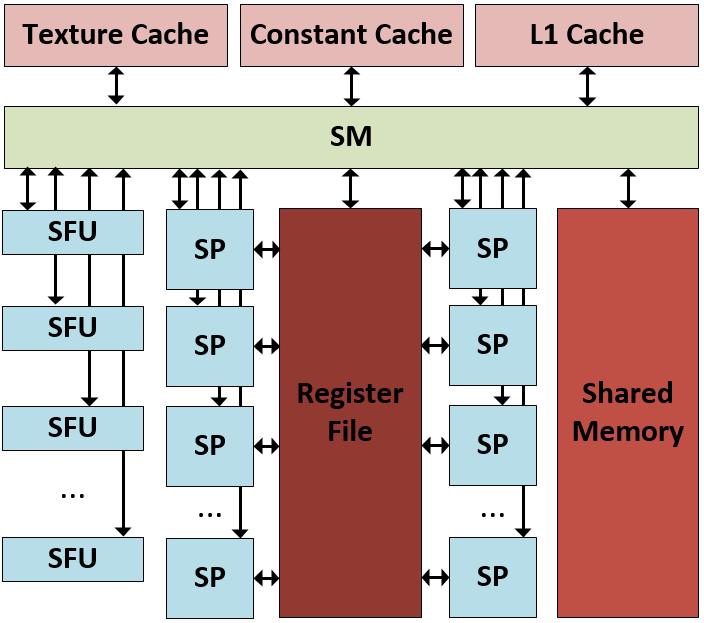
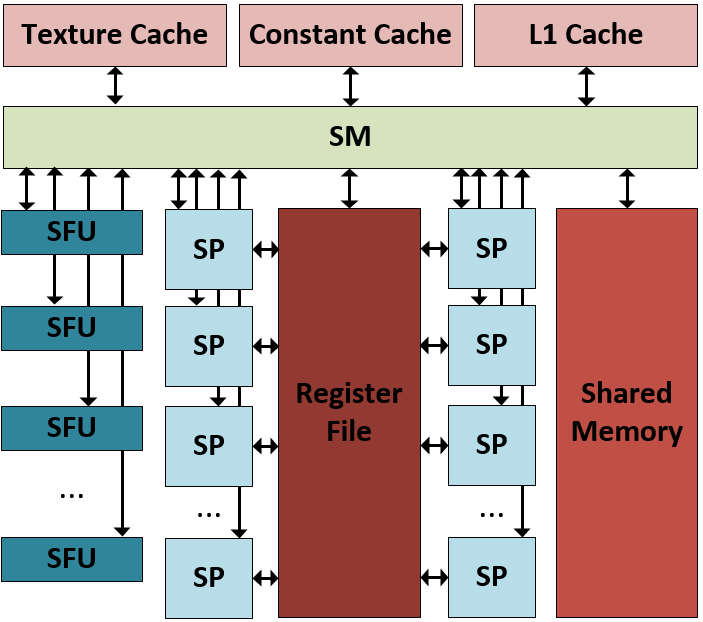
Finished Streaming Processor section + updated figures

diff --git a/doc/content/hw-streaming-processors.tex b/doc/content/hw-streaming-processors.tex
@@ -1,11 +1,38 @@
-The Streaming Processors(SP) goes under various different names including Scalar-Processors, Execution Units or the more famous CUDA Cores by Nvidia.
+The Streaming Processors(SPs) goes under various different names including \textit{Scalar-Processors}, \textit{Execution Units} or the more famous \textit{CUDA Cores} by Nvidia.
 SPs are the basic computing elements of a GPU, they perform fundamental operations, such as integer, floating-point, comparison and type conversions \cite{Li2016}.
-SPs are much like the cores located in CPUs, containing similarities such as simultaneous multi-threading (SMT).
+SPs are comparable to the cores located in CPUs, containing similarities such as simultaneous multi-threading (SMT).
+However, in order to increase the number of cores as seen for the GPU architecture, these SP cores need to be much simpler.
+SPs are stripped from complex features normally resided in CPU cores such as:
+
+\begin{itemize}
+	\item \textbf{No Out-of-order execution,} which otherwise allows for parallel execution for the internal computational units within the core. 
+	\item \textbf{No Cache memory,} instead the utilization of cache memory is moved to the SM. 
+\end{itemize}
+
+Furthermore, SPs does not contain its own computation registers, or instruction units.
+Instead they depend on the Registration File, Instruction Buffer and Warp Scheduler located in the SM.
+Therefore SPs has to be considered as a part of a multi-processor to be compatible with the usual understanding of a computing core \cite{Maitre2013}.
+
+By looking at the internal architecture of the SP, seen on \cref{fig:hw-sm}, it is seen that the SP contains five components:
+
+\begin{itemize}
+	\item \textbf{Dispatch Port -} The Dispatch Port is used to issue the execution of the given SP.
+	\item \textbf{Operand Collector -} The Operand Collector is used to load operands from the Register File and then buffer them for computation in the SP.
+	
+	\item \textbf{FP Unit -} The Floating Point Unit is, by its name, used to perform floating point data instructions.
+	It is one of the two dedicated data paths within the SP.
+	Support of double-precision (64-bit) floating point units is handled different depending on the architecture version.
+	Some architectures splits the double-precision instruction into multiple single-precision (32-bit) instructions, where other contain separate double-precision floating point units \cite{Johansson2010}.
+	
+	\item \textbf{INT Unit -} The Integer Unit, also known as Arithmetic Logic Unit (ALU), is the second data path within the SP. 
+	As its name indicates, the INT Unit performs integer data operations.
+	As the SP does not support Out-of-order execution, the two data paths cannot be active simultaneously.
+	
+	\item \textbf{Result Queue -} The Result Queue can be seen as the opposing component to the Operand Collector.
+	It buffers output data from the FP Unit and the INT Unit, until it is written to the Register File.
+	However, not all operations needs to be written back to the Register File.
+	If the output of a operation is used as a intermediate result, which is to be consumed by another operation, it is possible to forward it directly to the other operation without saving it to the Register File.
+	This concept is also known as a forwarding network, used in CPUs \cite{Kanter2009}.
+\end{itemize}
 
 
-
-%Increasing the number of cores, compared to an Intel P4, is
-%performed due to the lack of certain complex features that are usually implemented
-%on standard processors, including out-of-order execution, cache memory, and call
-%stack. In addition, the cores are organized into groups of eight, each with two texture
-%units, a texture cache and shared memory.
